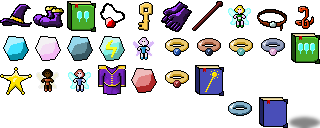
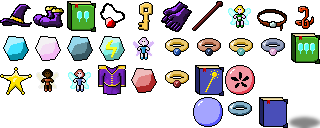
ADD Item: Teleport spell
Only available in challenges

Changed region(s): [[0.6875, 0.5, 0.8125, 0.75], [0.5938, 0.75, 0.7188, 1.0]]

diff --git a/src/WitchBlastGame.cpp b/src/WitchBlastGame.cpp
@@ -958,8 +958,7 @@ void WitchBlastGame::switchToMenu()
 
   if (!config.configFileExists())
   {
-    // TODO Language selection
-    menuState = MenuStateFirst; //MenuStateKeys;
+    menuState = MenuStateFirst;
     menuFirst.index = 0;
     menuKeyIndex = 0;
   }
@@ -1959,6 +1958,44 @@ item_equip_enum WitchBlastGame::getRandomEquipItem(bool toSale = false, bool noF
   return (item_equip_enum) bonusType;
 }
 
+void WitchBlastGame::generateChallengeBonus(float x, float y)
+{
+  // loot
+  if (player->getActiveSpell() == SpellNone)
+  {
+    ItemEntity* newItem = new ItemEntity(ItemSpellTeleport, x, y);
+    newItem->setVelocity(Vector2D(100.0f + rand()% 250));
+    newItem->setViscosity(0.96f);
+  }
+  else
+  {
+    ItemEntity* newItem = new ItemEntity(ItemBonusHealth, x, y);
+    newItem->setVelocity(Vector2D(100.0f + rand()% 250));
+    newItem->setViscosity(0.96f);
+
+    int gold = 2 + rand() % 9;
+    for (int i = 0; i < gold; i++)
+    {
+      ItemEntity* newItem = new ItemEntity(ItemCopperCoin, x, y);
+      newItem->setVelocity(Vector2D(90.0f + rand()% 150));
+      newItem->setViscosity(0.96f);
+    }
+  }
+
+  // sound
+    SoundManager::getSoundManager()->playSound(SOUND_GONG);
+
+  // text
+  float x0 = OFFSET_X + MAP_WIDTH * 0.5f * TILE_WIDTH;
+  float y0 = OFFSET_Y + MAP_HEIGHT * 0.5f * TILE_HEIGHT + 40.0f;
+  TextEntity* text = new TextEntity("COMPLETE !", 30, x0, y0);
+  text->setAlignment(ALIGN_CENTER);
+  text->setLifetime(2.5f);
+  text->setWeight(-36.0f);
+  text->setZ(1000);
+  text->setColor(TextEntity::COLOR_FADING_WHITE);
+}
+
 void WitchBlastGame::verifyDoorUnlocking()
 {
   int collidingDirection = (player->getCollidingDirection());
@@ -2170,8 +2207,8 @@ void WitchBlastGame::saveGame()
     file << std::endl;
     file << player->getX() << " " << player->getY() << std::endl;
     file << player->getShotIndex();
-    for (i = 0; i < SPECIAL_SHOT_SLOTS; i++) file << " " << player->getShotType(i);
-
+    for (i = 0; i < SPECIAL_SHOT_SLOTS; i++) file << " " << player->getShotType(i) << std::endl;
+    file << player->getActiveSpell();
     file.close();
   }
   else
@@ -2314,6 +2351,9 @@ bool WitchBlastGame::loadGame()
       file >> n;
       player->setShotType(i, (enumShotType)n);
     }
+
+    file >> n;
+    player->setActiveSpell((enumCastSpell)n);
 
     player->computePlayer();
     file.close();

diff --git a/src/PlayerEntity.cpp b/src/PlayerEntity.cpp
@@ -55,11 +55,6 @@ PlayerEntity::PlayerEntity(float x, float y)
 
   activeSpell.delay = -1.0f;
   activeSpell.spell = SpellNone;
-
-  // TEST
-  //activeSpell.spell = SpellTeleport;
-  //activeSpell.delayMax = 6.0f;
-  //activeSpell.delay = 0.0f;
 }
 
 void PlayerEntity::moveTo(float newX, float newY)
@@ -160,6 +155,10 @@ void PlayerEntity::acquireItemAfterStance()
 
     if (items[acquiredItem].specialShot != (ShotTypeStandard))
       registerSpecialShot(acquiredItem);
+
+    // spells
+    if (acquiredItem == ItemSpellTeleport)
+      setActiveSpell(SpellTeleport);
 
     computePlayer();
   }
@@ -1266,14 +1265,25 @@ enumCastSpell PlayerEntity::getActiveSpell()
   return activeSpell.spell;
 }
 
+void PlayerEntity::setActiveSpell(enumCastSpell spell)
+{
+  activeSpell.spell = spell;
+
+  switch (spell)
+  {
+  case SpellTeleport: activeSpell.delayMax = 20.0f; break;
+
+  case SpellNone: break;
+  }
+  activeSpell.delay = activeSpell.delayMax;
+}
+
 void PlayerEntity::castSpell()
 {
-  // todo type, etc...
   if (playerStatus == playerStatusDead) return;
 
   if (activeSpell.spell != SpellNone && activeSpell.delay <= 0.0f)
   {
-    // test spell
     activeSpell.delay = activeSpell.delayMax;
 
     switch (activeSpell.spell)
@@ -1291,7 +1301,7 @@ void PlayerEntity::teleport()
   bool ok = false;
   int xm, ym;
   float xNew = x, yNew = y;
-  invincibleDelay = 2.5f;
+  invincibleDelay = 2.0f;
 
   for(int i=0; i < 6; i++)
   {

diff --git a/src/BubbleEntity.cpp b/src/BubbleEntity.cpp
@@ -152,28 +152,7 @@ void BubbleEntity::dying()
     // the last one should drop
     if (game().getEnnemyCount() == 1)
     {
-      SoundManager::getSoundManager()->playSound(SOUND_GONG);
-
-      ItemEntity* newItem = new ItemEntity(ItemBonusHealth, x, y);
-      newItem->setVelocity(Vector2D(100.0f + rand()% 250));
-      newItem->setViscosity(0.96f);
-
-      int gold = 2 + rand() % 9;
-      for (int i = 0; i < gold; i++)
-      {
-        ItemEntity* newItem = new ItemEntity(ItemCopperCoin, x, y);
-        newItem->setVelocity(Vector2D(90.0f + rand()% 150));
-        newItem->setViscosity(0.96f);
-      }
-
-      float x0 = OFFSET_X + MAP_WIDTH * 0.5f * TILE_WIDTH;
-      float y0 = OFFSET_Y + MAP_HEIGHT * 0.5f * TILE_HEIGHT + 40.0f;
-      TextEntity* text = new TextEntity("COMPLETE !", 30, x0, y0);
-      text->setAlignment(ALIGN_CENTER);
-      text->setLifetime(2.5f);
-      text->setWeight(-36.0f);
-      text->setZ(1000);
-      text->setColor(TextEntity::COLOR_FADING_WHITE);
+      game().generateChallengeBonus(x, y);
     }
   }
 

diff --git a/src/Items.h b/src/Items.h
@@ -80,6 +80,7 @@ enum enumItemType
   ItemGemFire,
   ItemRingFire,
   ItemManualStaff,
+  ItemSpellTeleport,
 
   NUMBER_ITEMS
 };
@@ -250,6 +251,10 @@ const itemStuct items[NUMBER_ITEMS] =
   {
     ItemManualStaff, "item_manual_staff", "item_manual_staff_desc",
     20, true, FamiliarNone, true, true, true, 1, RarityCommon, AlignmentNone, -1, ShotTypeStandard
+  },
+  {
+    ItemSpellTeleport, "item_spell_teleport", "item_spell_teleport_desc",
+    60, true, FamiliarNone, false, false, true, 1, RarityCommon, AlignmentNone, -1, ShotTypeStandard
   }
 };
 
@@ -284,6 +289,7 @@ enum item_equip_enum {
   EQUIP_GEM_FIRE,
   EQUIP_RING_FIRE,
   EQUIP_MANUAL_STAFF,
+  EQUIP_SPELL_TELEPORT,
 
   NUMBER_EQUIP_ITEMS
   };

diff --git a/src/WitchBlastGame.h b/src/WitchBlastGame.h
@@ -234,6 +234,14 @@ public:
    */
   item_equip_enum getRandomEquipItem(bool toSale, bool noFairy);
 
+  /*!
+   *  \brief Generate a random challenge loot
+   *
+   *  \param x : x position of the bonus
+   *  \param y : y position of the bonus
+   */
+  void generateChallengeBonus(float x, float y);
+
     /*!
    *  \brief Adds monsters
    *

diff --git a/src/PlayerEntity.h b/src/PlayerEntity.h
@@ -430,6 +430,7 @@ class PlayerEntity : public BaseCreatureEntity
       float delayMax;
     };
 
+    void setActiveSpell(enumCastSpell spell);
     enumCastSpell getActiveSpell();
     float getPercentSpellDelay();
     void teleport();
